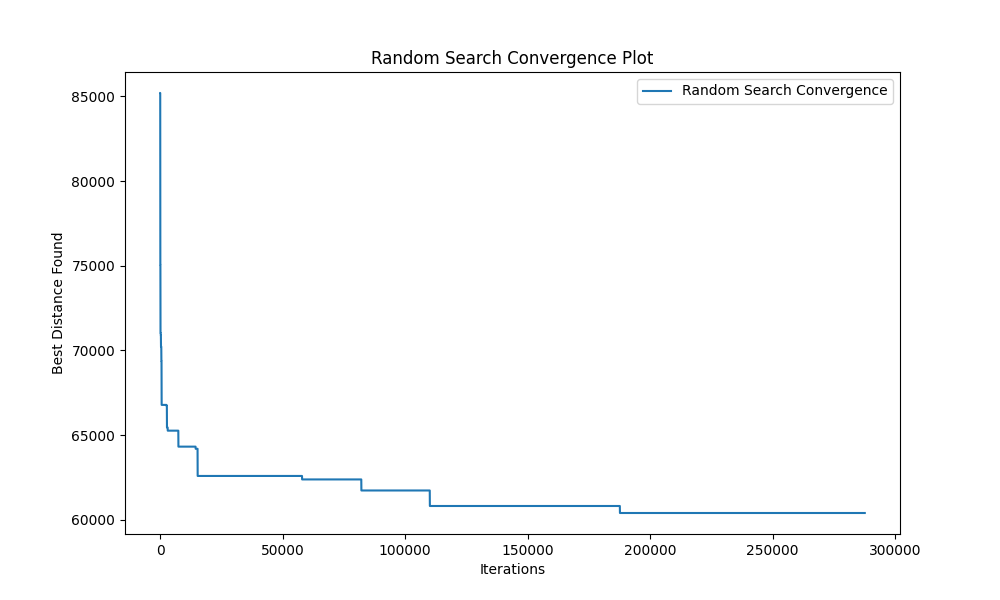
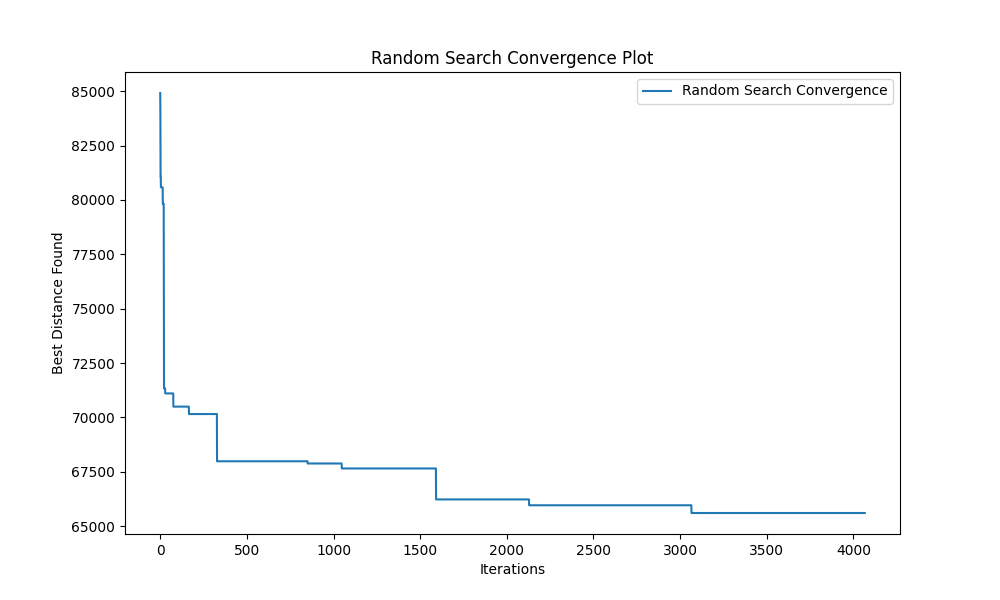
further changes related to last commit

diff --git a/expirement.py b/expirement.py
@@ -20,7 +20,7 @@ def run_ga_experiment(mutation_operator):
 
 if __name__ == "__main__":
     # Run Random Search Experiment
-    upper_limit = 100000 # amount of times RS continues to try without an improvement being found.
+    upper_limit = 1000 # set equal to max_unchanged_iterations for GA for fair assessment 
     run_random_search_experiment(upper_limit)
     
     # Run GA Experiment with Swap Mutation
